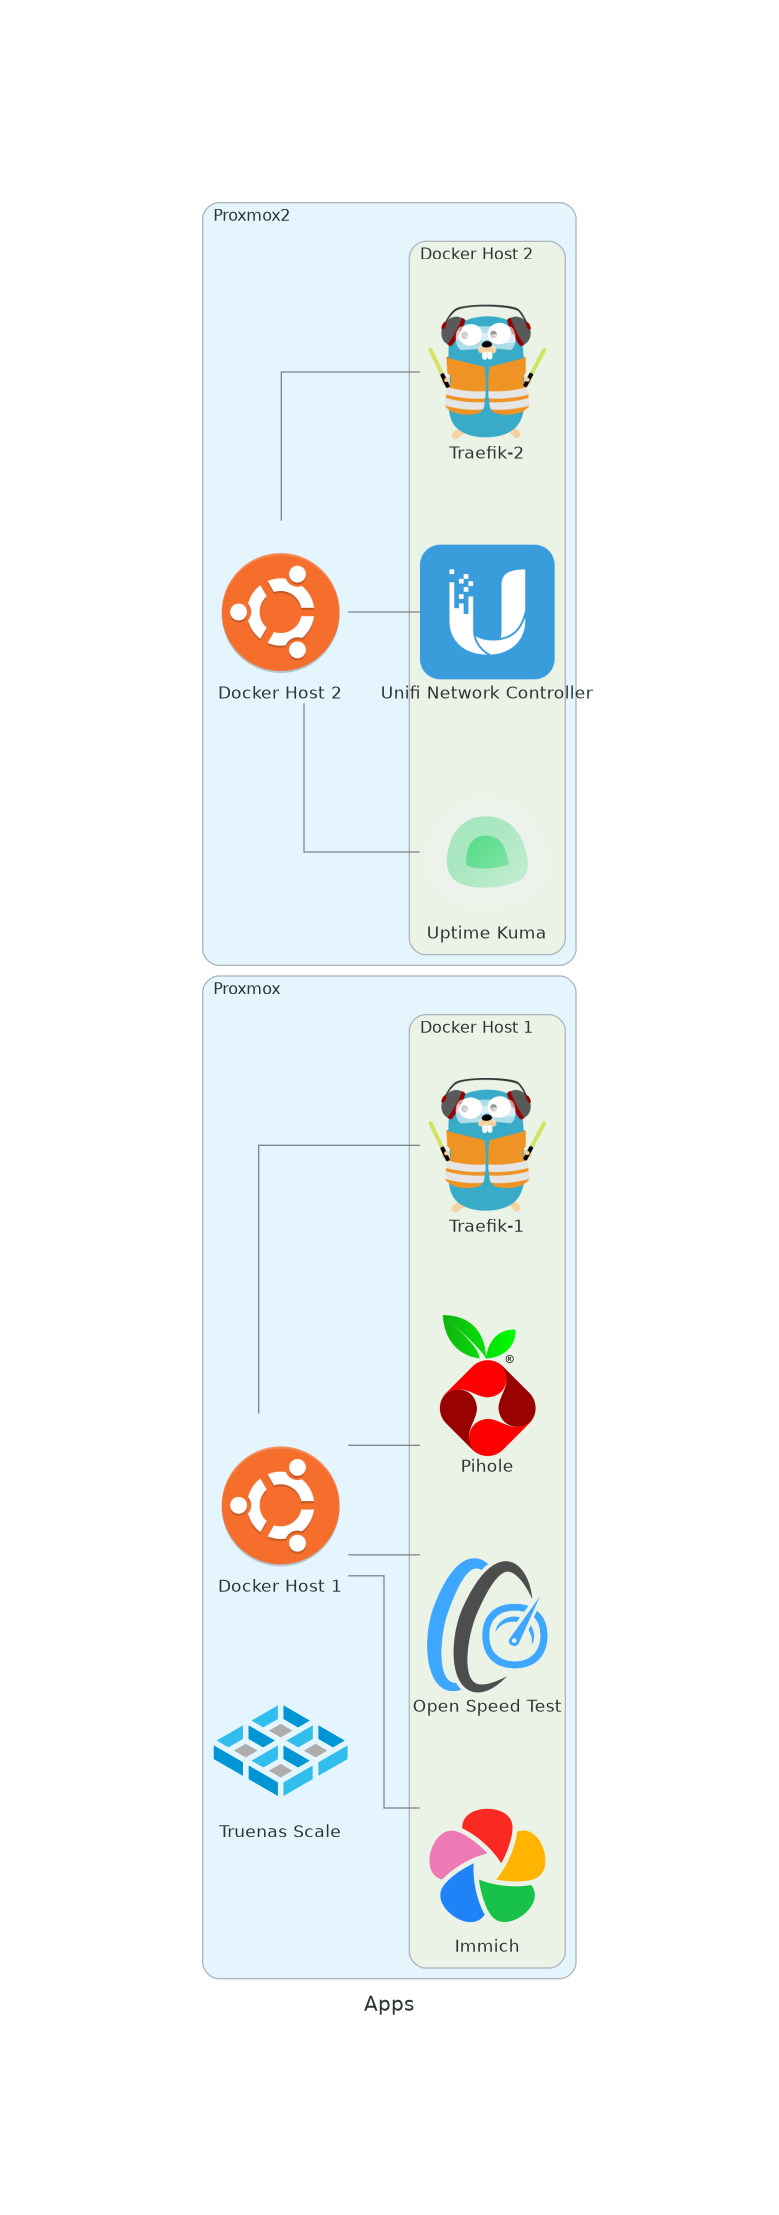
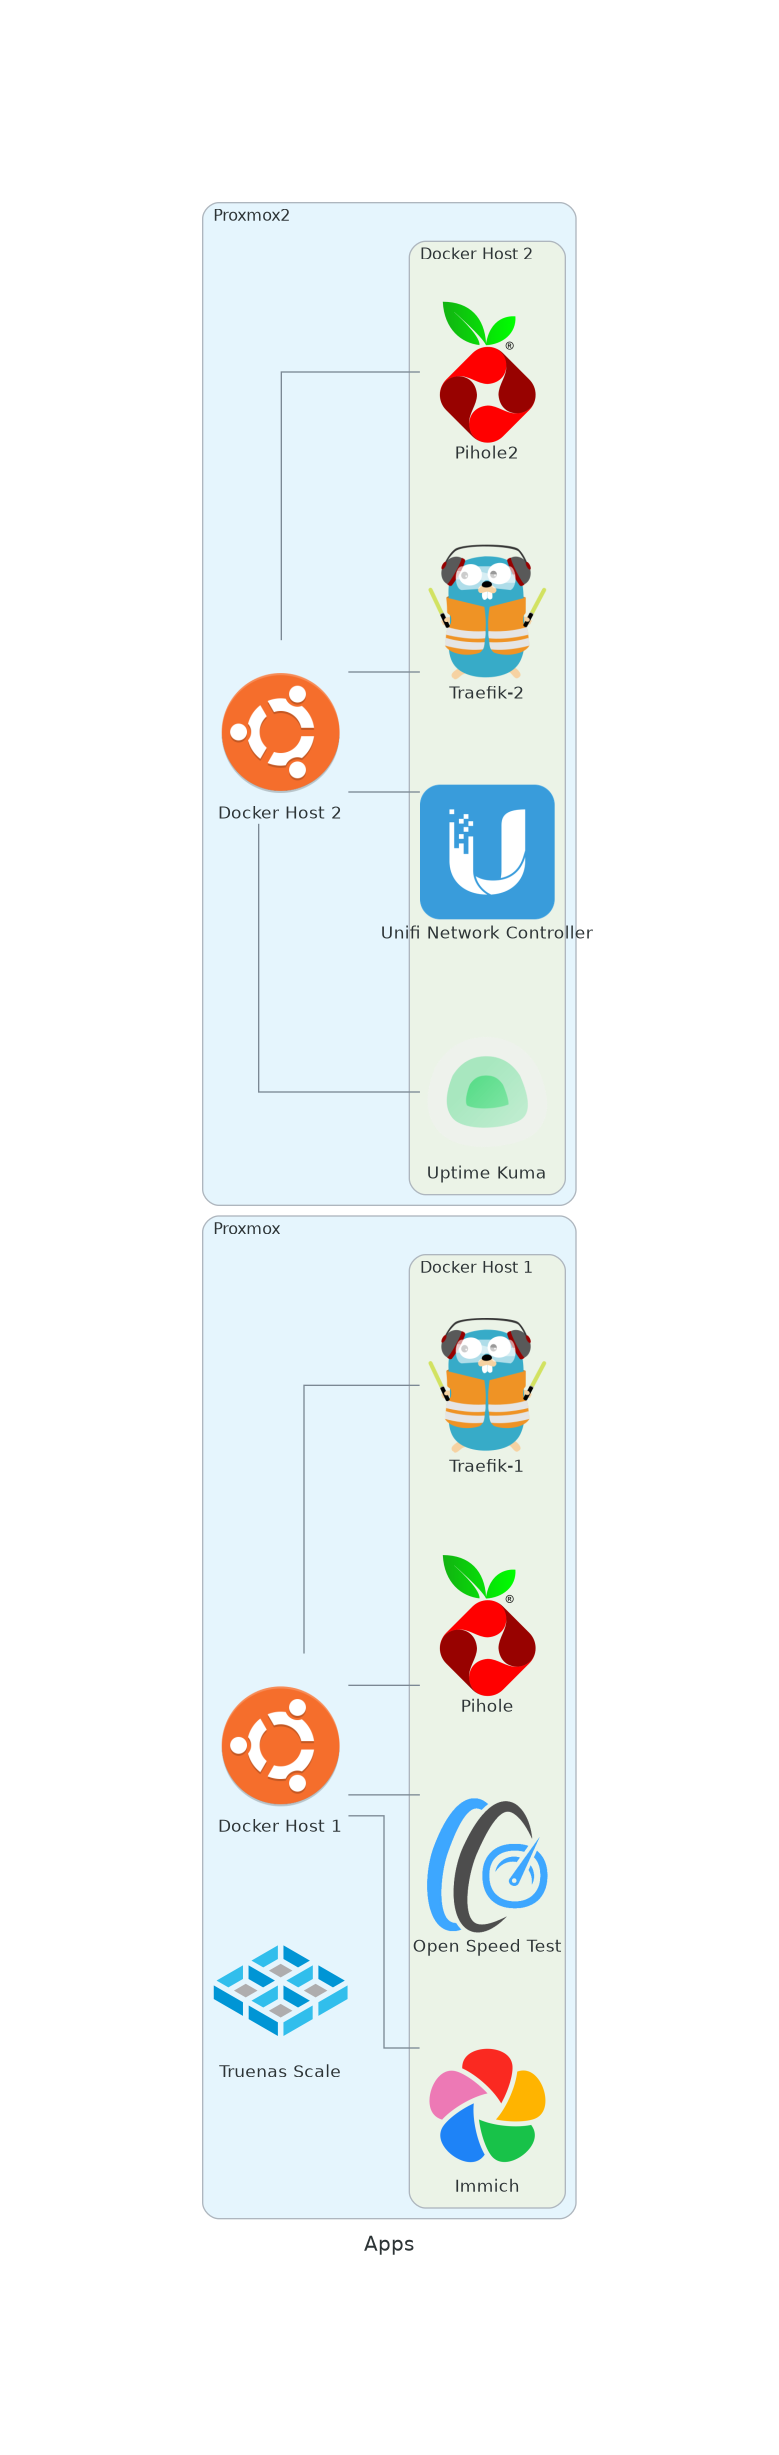
added pihole 2

Changed region(s): [[0.2465, 0.0623, 0.7394, 0.9345], [0.2773, 0.6542, 0.4621, 0.8411], [0.2773, 0.2492, 0.4313, 0.3427]]

diff --git a/src/homelab.py b/src/homelab.py
@@ -38,11 +38,12 @@ with Diagram("Apps", show=False, graph_attr=graph_attr):
         Ubuntu("Docker Host 1") - dockerhost1
         truenas
     with Cluster("Proxmox2"):
-        with Cluster("Docker Host 2"): 
+        with Cluster("Docker Host 2"):
+            pihole2 =  Custom ("Pihole2", "img/pihole.png") 
             unifi =  Custom ("Unifi Network Controller", "img/unifi.png")
             uptimekuma = Custom ("Uptime Kuma", "img/uptimekuma.png")
             traefik2 = Traefik("Traefik-2")
-            dockerhost2 = [traefik2, unifi, uptimekuma]
+            dockerhost2 = [pihole2, traefik2, unifi, uptimekuma]
         Ubuntu("Docker Host 2") - dockerhost2
 
 with Diagram("Homelab", show=False, graph_attr=graph_attr):
@@ -66,10 +67,11 @@ with Diagram("Homelab", show=False, graph_attr=graph_attr):
                 switch - truenas
             with Cluster("Proxmox2"):
                 with Cluster("Docker Host 2"): 
+                    pihole2 =  Custom ("Pihole2", "img/pihole.png")
                     unifi =  Custom ("Unifi Network Controller", "img/unifi.png")
                     uptimekuma = Custom ("Uptime Kuma", "img/uptimekuma.png")
                     traefik2 = Traefik("Traefik-2")
-                    dockerhost2 = [traefik2, unifi, uptimekuma]
+                    dockerhost2 = [pihole2, traefik2, unifi, uptimekuma]
                 switch - Ubuntu("Docker Host 2") - dockerhost2
             [wan1,wan2] >> mikrotik >> switch >> ap
             
